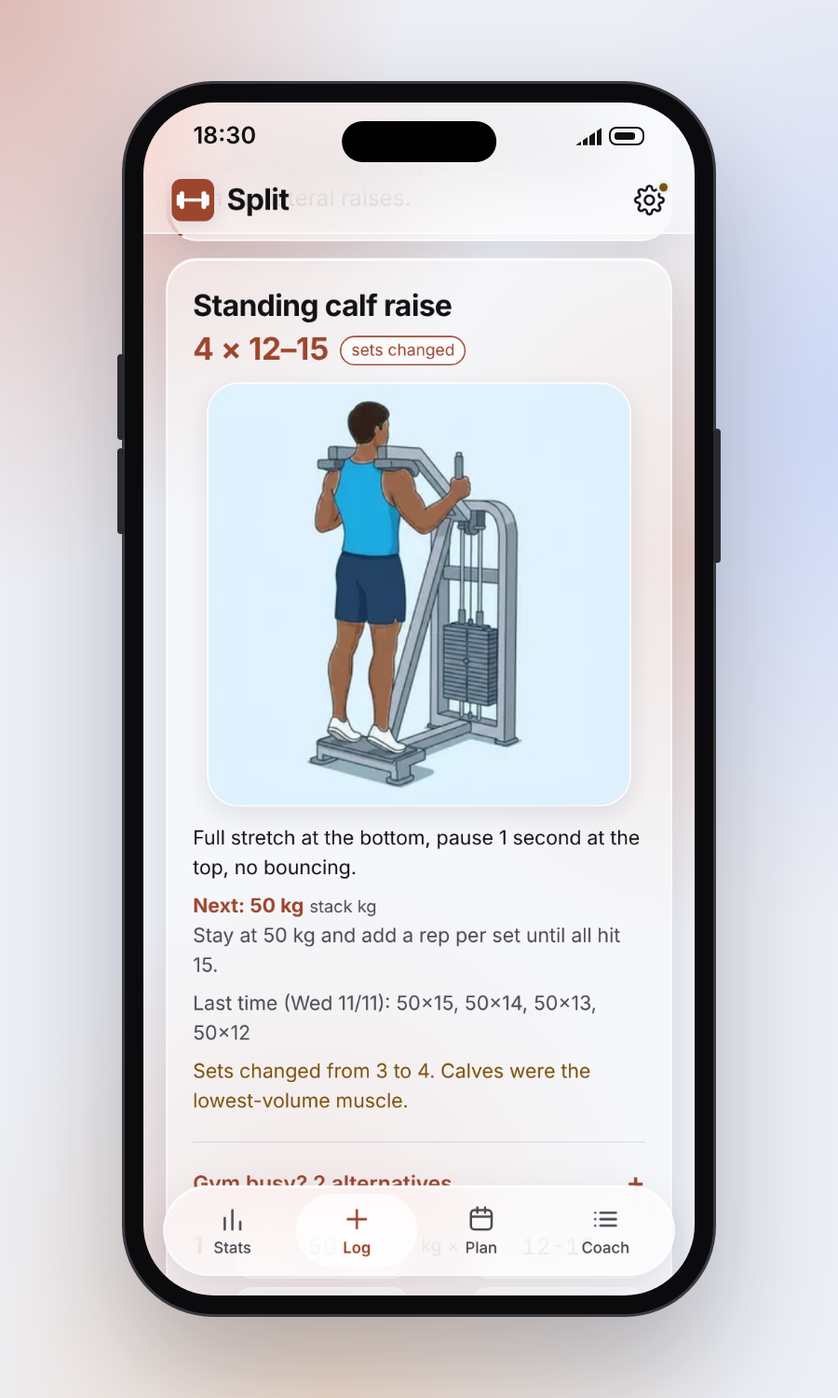
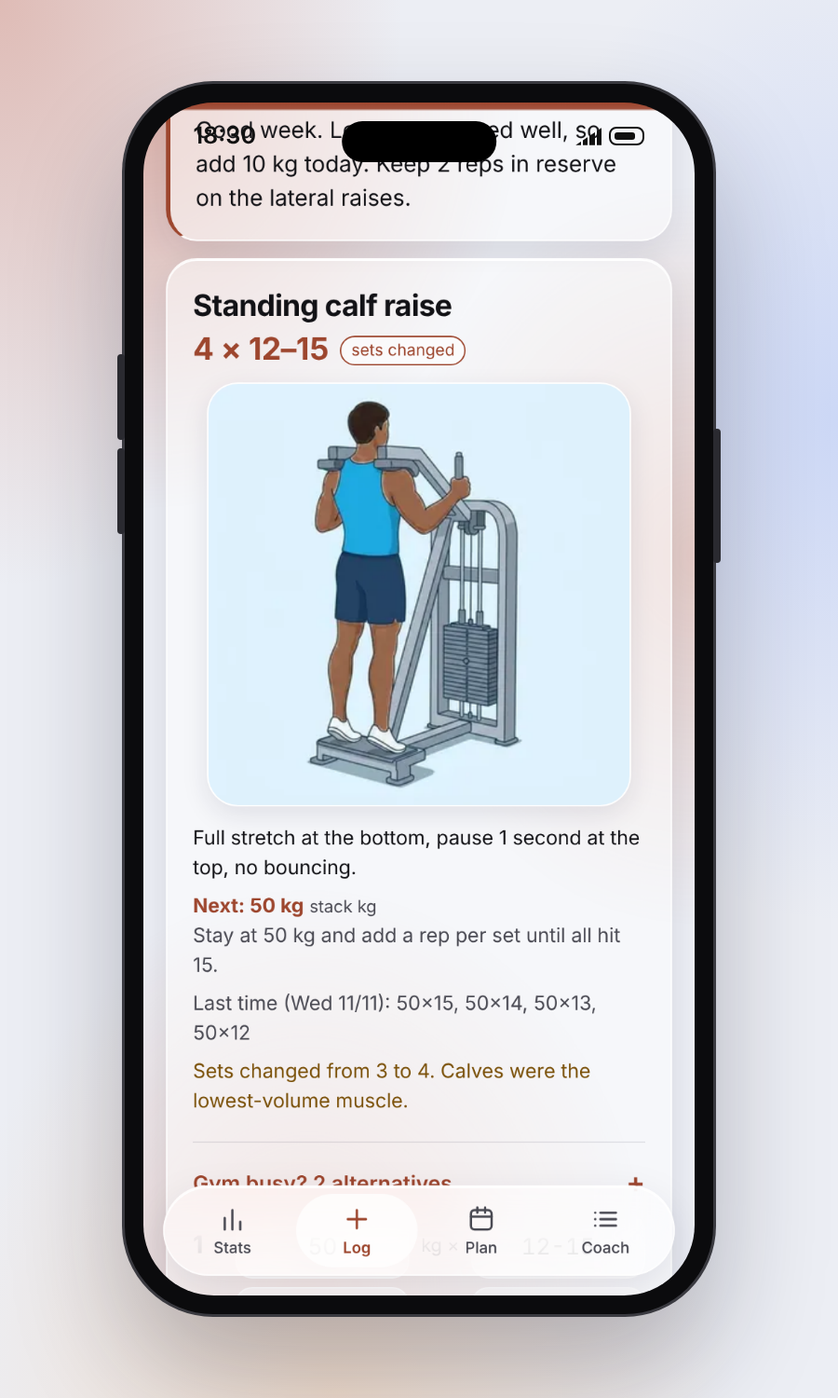
Header scrolls with the page; status-bar strip instead of a blurred header (#6)
Claude-Session: https://claude.ai/code/session_01G4zxRqEfTkFnjpAiDAwh36

Changed region(s): [[0.1556, 0.0613, 0.7778, 0.184], [0.7467, 0.1227, 0.8089, 0.1533]]

diff --git a/index.html b/index.html
@@ -10,7 +10,7 @@
 <meta name="apple-mobile-web-app-capable" content="yes"><meta name="mobile-web-app-capable" content="yes">
 <meta name="apple-mobile-web-app-title" content="Split"><meta name="apple-mobile-web-app-status-bar-style" content="black-translucent">
 <meta name="theme-color" id="tc" content="#faf9f5">
-<script src="theme.js?v=2026-11-18.132731"></script>
+<script src="theme.js?v=2026-11-18.133807"></script>
 <style>
 /* Layout: one narrow column, sticky header, bottom tab bar. Palette: graphite with indigo accent; heat uses its own red-to-green scale. */
 /* Look: warm paper, clay accent, serif display + system sans, quiet hairline cards (follows the iPhone light/dark setting) */
@@ -352,7 +352,8 @@ h2,.hd h2{font-size:32px;line-height:1.1}
 .big{color:var(--accent)}
 .coachnote{border-left:3px solid var(--accent)}
 .dd{padding:0}
-header{position:sticky;top:0;z-index:7;background:var(--glass-bar);-webkit-backdrop-filter:var(--blur);backdrop-filter:var(--blur);border-bottom:1px solid var(--glass-edge);padding:calc(8px + env(safe-area-inset-top)) 20px 8px}
+/* header: not pinned; it sits on the background and scrolls away with the page */
+header{position:static;background:transparent;-webkit-backdrop-filter:none;backdrop-filter:none;border-bottom:0;padding:calc(10px + env(safe-area-inset-top)) 20px 2px}
 header h1{font:600 15px var(--sans);color:var(--ink);letter-spacing:-.01em}
 main{padding-top:14px}
 .nav{bottom:calc(14px + env(safe-area-inset-bottom));width:min(calc(100% - 28px),420px);background:var(--glass-bar);-webkit-backdrop-filter:var(--blur);backdrop-filter:var(--blur);border:1px solid var(--glass-edge);box-shadow:inset 0 1px 0 var(--glass-hi),0 10px 30px var(--glass-shade)}
@@ -384,7 +385,7 @@ dialog#settings::backdrop{background:rgba(0,0,0,.30)}
 /* settings: close button pinned to the top right while the sheet scrolls */
 #set-x{position:sticky;top:0;float:right;margin:-8px -8px 0 8px;width:44px;height:44px;border-radius:50%;display:inline-flex;align-items:center;justify-content:center;border:1px solid var(--glass-edge);background:var(--surface);color:var(--ink);cursor:pointer;z-index:1;box-shadow:0 4px 14px var(--glass-shade)}
 /* fields: room under the pinned header and above the tab bar when scrolled to */
-html{scroll-padding-top:calc(76px + env(safe-area-inset-top));scroll-padding-bottom:calc(100px + env(safe-area-inset-bottom))}
+html{scroll-padding-top:calc(16px + env(safe-area-inset-top));scroll-padding-bottom:calc(100px + env(safe-area-inset-bottom))}
 /* date and body weight side by side: iOS draws date inputs at a fixed minimum width unless these are set */
 .fld{min-width:0}
 .fld input{min-width:0;max-width:100%}
@@ -402,9 +403,13 @@ header .brand h1{font:700 21px var(--sans);letter-spacing:-.02em;color:var(--ink
 #gear #sync[data-s="synced"]{background:var(--good)}#gear #sync[data-s="error"]{background:var(--bad)}
 .glassrow{display:flex;align-items:center;gap:10px;font-size:13px;color:var(--muted)}
 .glassrow input{flex:1;min-width:0;accent-color:var(--accent);height:32px}
-/* the page runs under the iPhone status bar (black-translucent). iOS then always draws the clock and battery in
-   white, so light mode gets a soft accent shade behind them; dark modes need none. Zero height off iPhone. */
-html[data-scheme="light"] header::before{content:"";position:absolute;inset:0 0 auto;height:calc(env(safe-area-inset-top,0px) + 6px);background:linear-gradient(to bottom,color-mix(in srgb,var(--accent) 88%,transparent),color-mix(in srgb,var(--accent) 60%,transparent) 70%,transparent);pointer-events:none}
+/* the page runs under the iPhone status bar (black-translucent). A fixed strip behind the clock stops scrolled content
+   from showing through it; it fades, never blurs. iOS draws the clock in white, so light mode's strip is always on with
+   an accent shade; dark modes show the gradient up to the clock and fade the strip in only once the page scrolls. */
+#sb-band{position:fixed;top:0;left:0;right:0;height:env(safe-area-inset-top,0px);z-index:8;pointer-events:none;opacity:0;transition:opacity .2s;
+  background:linear-gradient(to bottom,var(--bg) 60%,color-mix(in srgb,var(--bg) 0%,transparent))}
+html.scrolled #sb-band{opacity:1}
+html[data-scheme="light"] #sb-band{opacity:1;height:calc(env(safe-area-inset-top,0px) + 6px);background:linear-gradient(to bottom,var(--accent),color-mix(in srgb,var(--accent) 92%,var(--bg)) 72%,color-mix(in srgb,var(--accent) 0%,transparent))}
 /* no backdrop-filter support: bars go near-opaque so text under them stays readable */
 @supports not ((backdrop-filter:blur(1px)) or (-webkit-backdrop-filter:blur(1px))){
   html,html[data-scheme="light"]{--glass-bar:rgba(246,247,250,.96);--glass-sheet:rgba(246,247,250,.97)}
@@ -413,11 +418,12 @@ html[data-scheme="light"] header::before{content:"";position:absolute;inset:0 0 
 }
 /* high contrast: solid surfaces, no translucency, no blur, no wash */
 html[data-contrast="high"]{--glass:var(--surface);--glass-bar:var(--surface);--glass-sheet:var(--surface);--glass-sel:var(--inset);--glass-edge:var(--line);--glass-hi:transparent;--inset:var(--bg)}
-html[data-contrast="high"] header,html[data-contrast="high"] .nav,html[data-contrast="high"] dialog#settings,html[data-contrast="high"] #toast{-webkit-backdrop-filter:none;backdrop-filter:none}
+html[data-contrast="high"] .nav,html[data-contrast="high"] dialog#settings,html[data-contrast="high"] #toast{-webkit-backdrop-filter:none;backdrop-filter:none}
 html[data-contrast="high"] body::before{display:none}
 </style>
 </head>
 <body>
+<div id="sb-band" aria-hidden="true"></div>
 <header><div class="in"><div class="brand"><svg class="appicon" viewBox="0 0 24 24" aria-hidden="true"><rect class="tile-bg" width="24" height="24" rx="5.5"/><g class="bell"><rect x="2.8" y="8.8" width="1.9" height="6.4" rx=".95"/><rect x="4.5" y="7" width="2.6" height="10" rx="1.3"/><rect x="7" y="11.1" width="10" height="1.8" rx=".9"/><rect x="16.9" y="7" width="2.6" height="10" rx="1.3"/><rect x="19.3" y="8.8" width="1.9" height="6.4" rx=".95"/></g></svg><h1>Split</h1></div><button id="gear" type="button" aria-label="Settings"><svg viewBox="0 0 24 24" width="22" height="22" fill="none" stroke="currentColor" stroke-width="1.8" stroke-linecap="round" stroke-linejoin="round" aria-hidden="true"><path d="M12 15.5a3.5 3.5 0 1 0 0-7 3.5 3.5 0 0 0 0 7Z"/><path d="M19.4 15a1.7 1.7 0 0 0 .34 1.87l.06.06a2 2 0 1 1-2.83 2.83l-.06-.06a1.7 1.7 0 0 0-1.87-.34 1.7 1.7 0 0 0-1.04 1.56V21a2 2 0 1 1-4 0v-.09A1.7 1.7 0 0 0 9 19.4a1.7 1.7 0 0 0-1.87.34l-.06.06a2 2 0 1 1-2.83-2.83l.06-.06A1.7 1.7 0 0 0 4.6 15a1.7 1.7 0 0 0-1.56-1.04H3a2 2 0 1 1 0-4h.09A1.7 1.7 0 0 0 4.6 9a1.7 1.7 0 0 0-.34-1.87l-.06-.06a2 2 0 1 1 2.83-2.83l.06.06A1.7 1.7 0 0 0 9 4.6a1.7 1.7 0 0 0 1.04-1.56V3a2 2 0 1 1 4 0v.09A1.7 1.7 0 0 0 15 4.6a1.7 1.7 0 0 0 1.87-.34l.06-.06a2 2 0 1 1 2.83 2.83l-.06.06A1.7 1.7 0 0 0 19.4 9a1.7 1.7 0 0 0 1.56 1.04H21a2 2 0 1 1 0 4h-.09A1.7 1.7 0 0 0 19.4 15Z"/></svg><span id="sync" data-s="warn">Starting…</span></button></div></header>
 <dialog id="settings"><button id="set-x" type="button" aria-label="Close settings"><svg viewBox="0 0 24 24" width="20" height="20" aria-hidden="true" fill="none" stroke="currentColor" stroke-width="2" stroke-linecap="round"><path d="M6 6l12 12M18 6L6 18"/></svg></button><h2>Settings</h2><p id="set-status"></p>
 <h3>Cloud sync</h3><p class="sub" style="margin:0;font-size:13px;color:var(--muted)">Your workouts always save on this phone first. Sync copies them to your private GitHub repo so Claude can read them.</p>
@@ -432,7 +438,7 @@ html[data-contrast="high"] body::before{display:none}
 <button type="button" class="sw" data-acc="forest" aria-label="Forest" style="background:#2c7048"><span>Forest</span></button>
 <button type="button" class="sw" data-acc="violet" aria-label="Violet" style="background:#6a4cb0"><span>Violet</span></button>
 <button type="button" class="sw" data-acc="graphite" aria-label="Graphite" style="background:#3b3a37"><span>Graphite</span></button></div>
-<label for="th-glass">Glass on the tab bar and header</label><div class="glassrow"><span>Clear</span><input type="range" id="th-glass" min="0" max="100" step="5" value="50" aria-describedby="th-glass-note"><span>Tinted</span></div><p class="sub" id="th-glass-note" style="margin:2px 0 0;font-size:12.5px">Clearer shows more of the page behind the bars.</p>
+<label for="th-glass">Glass on the tab bar</label><div class="glassrow"><span>Clear</span><input type="range" id="th-glass" min="0" max="100" step="5" value="50" aria-describedby="th-glass-note"><span>Tinted</span></div><p class="sub" id="th-glass-note" style="margin:2px 0 0;font-size:12.5px">Clearer shows more of the page behind it.</p>
 <label class="hcrow" for="th-hc"><span>High contrast (easier to read in bright light)</span><input type="checkbox" id="th-hc"></label>
 <h3>Goal</h3><label for="set-target">Target body weight, kg (stays on this phone)</label><input id="set-target" type="text" inputmode="decimal" placeholder="optional">
 <h3>Backup</h3><div class="row"><button class="btn" id="set-export" type="button">Export backup</button><label class="btn fileb" style="margin:0;color:var(--ink)">Import backup<input id="set-import" type="file" accept="application/json,.json"></label></div>
@@ -451,6 +457,6 @@ html[data-contrast="high"] body::before{display:none}
 <button data-tab="coach"><svg viewBox="0 0 24 24" aria-hidden="true"><path d="M8 7h12M8 12h12M8 17h12M4 7h.01M4 12h.01M4 17h.01"/></svg>Coach</button>
 </div></nav>
 <div id="toast" role="status" aria-live="polite"></div>
-<script src="split.js?v=2026-11-18.132731"></script>
+<script src="split.js?v=2026-11-18.133807"></script>
 </body>
 </html>

diff --git a/src/template.html b/src/template.html
@@ -352,7 +352,8 @@ h2,.hd h2{font-size:32px;line-height:1.1}
 .big{color:var(--accent)}
 .coachnote{border-left:3px solid var(--accent)}
 .dd{padding:0}
-header{position:sticky;top:0;z-index:7;background:var(--glass-bar);-webkit-backdrop-filter:var(--blur);backdrop-filter:var(--blur);border-bottom:1px solid var(--glass-edge);padding:calc(8px + env(safe-area-inset-top)) 20px 8px}
+/* header: not pinned; it sits on the background and scrolls away with the page */
+header{position:static;background:transparent;-webkit-backdrop-filter:none;backdrop-filter:none;border-bottom:0;padding:calc(10px + env(safe-area-inset-top)) 20px 2px}
 header h1{font:600 15px var(--sans);color:var(--ink);letter-spacing:-.01em}
 main{padding-top:14px}
 .nav{bottom:calc(14px + env(safe-area-inset-bottom));width:min(calc(100% - 28px),420px);background:var(--glass-bar);-webkit-backdrop-filter:var(--blur);backdrop-filter:var(--blur);border:1px solid var(--glass-edge);box-shadow:inset 0 1px 0 var(--glass-hi),0 10px 30px var(--glass-shade)}
@@ -384,7 +385,7 @@ dialog#settings::backdrop{background:rgba(0,0,0,.30)}
 /* settings: close button pinned to the top right while the sheet scrolls */
 #set-x{position:sticky;top:0;float:right;margin:-8px -8px 0 8px;width:44px;height:44px;border-radius:50%;display:inline-flex;align-items:center;justify-content:center;border:1px solid var(--glass-edge);background:var(--surface);color:var(--ink);cursor:pointer;z-index:1;box-shadow:0 4px 14px var(--glass-shade)}
 /* fields: room under the pinned header and above the tab bar when scrolled to */
-html{scroll-padding-top:calc(76px + env(safe-area-inset-top));scroll-padding-bottom:calc(100px + env(safe-area-inset-bottom))}
+html{scroll-padding-top:calc(16px + env(safe-area-inset-top));scroll-padding-bottom:calc(100px + env(safe-area-inset-bottom))}
 /* date and body weight side by side: iOS draws date inputs at a fixed minimum width unless these are set */
 .fld{min-width:0}
 .fld input{min-width:0;max-width:100%}
@@ -402,9 +403,13 @@ header .brand h1{font:700 21px var(--sans);letter-spacing:-.02em;color:var(--ink
 #gear #sync[data-s="synced"]{background:var(--good)}#gear #sync[data-s="error"]{background:var(--bad)}
 .glassrow{display:flex;align-items:center;gap:10px;font-size:13px;color:var(--muted)}
 .glassrow input{flex:1;min-width:0;accent-color:var(--accent);height:32px}
-/* the page runs under the iPhone status bar (black-translucent). iOS then always draws the clock and battery in
-   white, so light mode gets a soft accent shade behind them; dark modes need none. Zero height off iPhone. */
-html[data-scheme="light"] header::before{content:"";position:absolute;inset:0 0 auto;height:calc(env(safe-area-inset-top,0px) + 6px);background:linear-gradient(to bottom,color-mix(in srgb,var(--accent) 88%,transparent),color-mix(in srgb,var(--accent) 60%,transparent) 70%,transparent);pointer-events:none}
+/* the page runs under the iPhone status bar (black-translucent). A fixed strip behind the clock stops scrolled content
+   from showing through it; it fades, never blurs. iOS draws the clock in white, so light mode's strip is always on with
+   an accent shade; dark modes show the gradient up to the clock and fade the strip in only once the page scrolls. */
+#sb-band{position:fixed;top:0;left:0;right:0;height:env(safe-area-inset-top,0px);z-index:8;pointer-events:none;opacity:0;transition:opacity .2s;
+  background:linear-gradient(to bottom,var(--bg) 60%,color-mix(in srgb,var(--bg) 0%,transparent))}
+html.scrolled #sb-band{opacity:1}
+html[data-scheme="light"] #sb-band{opacity:1;height:calc(env(safe-area-inset-top,0px) + 6px);background:linear-gradient(to bottom,var(--accent),color-mix(in srgb,var(--accent) 92%,var(--bg)) 72%,color-mix(in srgb,var(--accent) 0%,transparent))}
 /* no backdrop-filter support: bars go near-opaque so text under them stays readable */
 @supports not ((backdrop-filter:blur(1px)) or (-webkit-backdrop-filter:blur(1px))){
   html,html[data-scheme="light"]{--glass-bar:rgba(246,247,250,.96);--glass-sheet:rgba(246,247,250,.97)}
@@ -413,11 +418,12 @@ html[data-scheme="light"] header::before{content:"";position:absolute;inset:0 0 
 }
 /* high contrast: solid surfaces, no translucency, no blur, no wash */
 html[data-contrast="high"]{--glass:var(--surface);--glass-bar:var(--surface);--glass-sheet:var(--surface);--glass-sel:var(--inset);--glass-edge:var(--line);--glass-hi:transparent;--inset:var(--bg)}
-html[data-contrast="high"] header,html[data-contrast="high"] .nav,html[data-contrast="high"] dialog#settings,html[data-contrast="high"] #toast{-webkit-backdrop-filter:none;backdrop-filter:none}
+html[data-contrast="high"] .nav,html[data-contrast="high"] dialog#settings,html[data-contrast="high"] #toast{-webkit-backdrop-filter:none;backdrop-filter:none}
 html[data-contrast="high"] body::before{display:none}
 </style>
 </head>
 <body>
+<div id="sb-band" aria-hidden="true"></div>
 <header><div class="in"><div class="brand"><svg class="appicon" viewBox="0 0 24 24" aria-hidden="true"><rect class="tile-bg" width="24" height="24" rx="5.5"/><g class="bell"><rect x="2.8" y="8.8" width="1.9" height="6.4" rx=".95"/><rect x="4.5" y="7" width="2.6" height="10" rx="1.3"/><rect x="7" y="11.1" width="10" height="1.8" rx=".9"/><rect x="16.9" y="7" width="2.6" height="10" rx="1.3"/><rect x="19.3" y="8.8" width="1.9" height="6.4" rx=".95"/></g></svg><h1>Split</h1></div><button id="gear" type="button" aria-label="Settings"><svg viewBox="0 0 24 24" width="22" height="22" fill="none" stroke="currentColor" stroke-width="1.8" stroke-linecap="round" stroke-linejoin="round" aria-hidden="true"><path d="M12 15.5a3.5 3.5 0 1 0 0-7 3.5 3.5 0 0 0 0 7Z"/><path d="M19.4 15a1.7 1.7 0 0 0 .34 1.87l.06.06a2 2 0 1 1-2.83 2.83l-.06-.06a1.7 1.7 0 0 0-1.87-.34 1.7 1.7 0 0 0-1.04 1.56V21a2 2 0 1 1-4 0v-.09A1.7 1.7 0 0 0 9 19.4a1.7 1.7 0 0 0-1.87.34l-.06.06a2 2 0 1 1-2.83-2.83l.06-.06A1.7 1.7 0 0 0 4.6 15a1.7 1.7 0 0 0-1.56-1.04H3a2 2 0 1 1 0-4h.09A1.7 1.7 0 0 0 4.6 9a1.7 1.7 0 0 0-.34-1.87l-.06-.06a2 2 0 1 1 2.83-2.83l.06.06A1.7 1.7 0 0 0 9 4.6a1.7 1.7 0 0 0 1.04-1.56V3a2 2 0 1 1 4 0v.09A1.7 1.7 0 0 0 15 4.6a1.7 1.7 0 0 0 1.87-.34l.06-.06a2 2 0 1 1 2.83 2.83l-.06.06A1.7 1.7 0 0 0 19.4 9a1.7 1.7 0 0 0 1.56 1.04H21a2 2 0 1 1 0 4h-.09A1.7 1.7 0 0 0 19.4 15Z"/></svg><span id="sync" data-s="warn">Starting…</span></button></div></header>
 <dialog id="settings"><button id="set-x" type="button" aria-label="Close settings"><svg viewBox="0 0 24 24" width="20" height="20" aria-hidden="true" fill="none" stroke="currentColor" stroke-width="2" stroke-linecap="round"><path d="M6 6l12 12M18 6L6 18"/></svg></button><h2>Settings</h2><p id="set-status"></p>
 <h3>Cloud sync</h3><p class="sub" style="margin:0;font-size:13px;color:var(--muted)">Your workouts always save on this phone first. Sync copies them to your private GitHub repo so Claude can read them.</p>
@@ -432,7 +438,7 @@ html[data-contrast="high"] body::before{display:none}
 <button type="button" class="sw" data-acc="forest" aria-label="Forest" style="background:#2c7048"><span>Forest</span></button>
 <button type="button" class="sw" data-acc="violet" aria-label="Violet" style="background:#6a4cb0"><span>Violet</span></button>
 <button type="button" class="sw" data-acc="graphite" aria-label="Graphite" style="background:#3b3a37"><span>Graphite</span></button></div>
-<label for="th-glass">Glass on the tab bar and header</label><div class="glassrow"><span>Clear</span><input type="range" id="th-glass" min="0" max="100" step="5" value="50" aria-describedby="th-glass-note"><span>Tinted</span></div><p class="sub" id="th-glass-note" style="margin:2px 0 0;font-size:12.5px">Clearer shows more of the page behind the bars.</p>
+<label for="th-glass">Glass on the tab bar</label><div class="glassrow"><span>Clear</span><input type="range" id="th-glass" min="0" max="100" step="5" value="50" aria-describedby="th-glass-note"><span>Tinted</span></div><p class="sub" id="th-glass-note" style="margin:2px 0 0;font-size:12.5px">Clearer shows more of the page behind it.</p>
 <label class="hcrow" for="th-hc"><span>High contrast (easier to read in bright light)</span><input type="checkbox" id="th-hc"></label>
 <h3>Goal</h3><label for="set-target">Target body weight, kg (stays on this phone)</label><input id="set-target" type="text" inputmode="decimal" placeholder="optional">
 <h3>Backup</h3><div class="row"><button class="btn" id="set-export" type="button">Export backup</button><label class="btn fileb" style="margin:0;color:var(--ink)">Import backup<input id="set-import" type="file" accept="application/json,.json"></label></div>

diff --git a/tests/app.test.js b/tests/app.test.js
@@ -215,14 +215,24 @@ const lum=c=>{const f=v=>v<=.03928?v/12.92:Math.pow((v+.055)/1.055,2.4);return .
 const contrast=(a,b)=>{const x=lum(a),y=lum(b);return (Math.max(x,y)+.05)/(Math.min(x,y)+.05);};
 const theme=(mode,extra={})=>({'split-theme-v1':Object.assign({mode,accent:'clay',contrast:'normal'},extra)});
 
-test('glass: wash sits behind the page and bars blur, cards do not',async()=>{
+test('glass: wash sits behind the page, the tab bar blurs, cards and header do not',async()=>{
   const {ctx,page}=await openApp({hash:'stats',ls:theme('light')});
   const r=await page.evaluate(()=>{const bf=e=>{const s=getComputedStyle(e);return s.backdropFilter||s.webkitBackdropFilter||'none';};
     return {wash:getComputedStyle(document.body,'::before').position,header:bf(document.querySelector('header')),nav:bf(document.querySelector('.nav')),card:bf(document.querySelector('.card')),radius:getComputedStyle(document.querySelector('.card')).borderRadius};});
   assert.equal(r.wash,'fixed');
-  assert.match(r.header,/blur/);assert.match(r.nav,/blur/);
-  assert.equal(r.card,'none');
+  assert.match(r.nav,/blur/);
+  assert.equal(r.header,'none');assert.equal(r.card,'none');
   assert.equal(r.radius,'22px');
+  await ctx.close();
+});
+
+test('the header scrolls away with the page and sits on the background',async()=>{
+  const {ctx,page}=await openApp({hash:'plan',ctxOpts:{viewport:{width:390,height:700}}});
+  const r=await page.evaluate(()=>{const h=document.querySelector('header'),cs=getComputedStyle(h);window.scrollTo(0,600);
+    return {pos:cs.position,bg:cs.backgroundColor,bottom:h.getBoundingClientRect().bottom};});
+  assert.equal(r.pos,'static');
+  assert.match(r.bg,/rgba\(0, 0, 0, 0\)|transparent/);
+  assert.ok(r.bottom<0,'header scrolled out of view: '+r.bottom);
   await ctx.close();
 });
 
@@ -320,14 +330,14 @@ test('settings has a close button in the top right corner',async()=>{
   await ctx.close();
 });
 
-test('a focused input is never left under the pinned header',async()=>{
+test('a focused input is never left under the status bar strip',async()=>{
   const {ctx,page}=await openApp({hash:'log',ctxOpts:{viewport:{width:390,height:700}}});
+  await page.addStyleTag({content:'#sb-band{height:59px!important}'}); // the iPhone 15 Pro Max inset; Chromium reports 0
   const sel='input[data-ex][data-i="0"][data-f="reps"]';
-  // put the input partly underneath the header, as when the page has scrolled
-  await page.evaluate(sel=>{const h=document.querySelector('header').getBoundingClientRect().bottom,i=document.querySelector(sel).getBoundingClientRect().top;window.scrollBy(0,i-h+20);},sel);
+  await page.evaluate(sel=>{const i=document.querySelector(sel).getBoundingClientRect().top;window.scrollBy(0,i-30);},sel);
   await page.focus(sel);await page.waitForTimeout(400);
-  const r=await page.evaluate(sel=>({header:document.querySelector('header').getBoundingClientRect().bottom,input:document.querySelector(sel).getBoundingClientRect().top}),sel);
-  assert.ok(r.input>=r.header,`input top ${r.input} vs header bottom ${r.header}`);
+  const r=await page.evaluate(sel=>({band:document.querySelector('#sb-band').getBoundingClientRect().bottom,input:document.querySelector(sel).getBoundingClientRect().top}),sel);
+  assert.ok(r.input>=r.band,`input top ${r.input} vs strip bottom ${r.band}`);
   await ctx.close();
 });
 
@@ -394,12 +404,18 @@ test('the background runs under the iPhone status bar',async()=>{
   const html=fs.readFileSync(path.join(ROOT,'index.html'),'utf8');
   assert.match(html,/<meta name="apple-mobile-web-app-status-bar-style" content="black-translucent">/);
   assert.match(html,/viewport-fit=cover/);
-  // the status bar text is always white with black-translucent: light mode gets a shade behind it, dark modes do not
-  const shade={};
-  for(const mode of ['light','dark','black']){
+  // a fixed strip behind the clock keeps scrolled content from showing through it; it fades, it does not blur.
+  // iOS draws the clock in white here, so light mode's strip carries the accent shade.
+  const band={};
+  for(const mode of ['light','dark']){
     const {ctx,page}=await openApp({hash:'stats',ls:theme(mode)});
-    shade[mode]=await page.$eval('header',h=>getComputedStyle(h,'::before').content!=='none'&&getComputedStyle(h,'::before').display!=='none');
+    band[mode]=await page.$eval('#sb-band',b=>{const cs=getComputedStyle(b);return {pos:cs.position,top:cs.top,pe:cs.pointerEvents,img:cs.backgroundImage,bf:cs.backdropFilter||cs.webkitBackdropFilter||'none'};});
     await ctx.close();
   }
-  assert.deepEqual(shade,{light:true,dark:false,black:false});
+  for(const m of ['light','dark']){
+    assert.equal(band[m].pos,'fixed');assert.equal(band[m].top,'0px');assert.equal(band[m].pe,'none');
+    assert.match(band[m].img,/gradient/);assert.equal(band[m].bf,'none');
+  }
+  assert.notEqual(band.light.img,band.dark.img,'light strip carries the accent shade');
 });
+

diff --git a/split.js b/split.js
@@ -80,7 +80,7 @@ let sampleCache=null;
 const LS_CO='split-coach-v1',LS_CS='split-coach-shas-v1';
 const esc=s=>String(s==null?'':s).replace(/[&<>"']/g,c=>({'&':'&amp;','<':'&lt;','>':'&gt;','"':'&quot;',"'":'&#39;'}[c]));
 const LS_S='split-sessions-v2',LS_SA='split-sessions-at-v1',LS_Q='split-queue-v1',LS_C='split-sync-cfg-v1',LS_H='split-shas-v1',LS_L='split-lastsync-v1';
-const BUILD='2026-11-18.132731';
+const BUILD='2026-11-18.133807';
 const DATE_RE=/^\d{4}-\d{2}-\d{2}$/,FILE_RE=/^\d{4}-\d{2}-\d{2}\.json$/,REPO_RE=/^[\w.-]+\/[\w.-]+$/;
 const dayOf=id=>DAYS.find(x=>x.id===id)||null;
 const lsGet=(k,d)=>{try{const v=localStorage.getItem(k);return v?JSON.parse(v):d;}catch(e){return d;}};
@@ -694,12 +694,15 @@ window.addEventListener('pagehide',()=>{if(state.dirty)autoSave();});
 window.addEventListener('focus',rollover);
 window.addEventListener('online',()=>schedSync(500));
 document.addEventListener('visibilitychange',()=>{if(document.hidden){if(Object.keys(queueGet()).length)schedSync(0);}else schedSync(500);});
-/* Keep a focused field clear of the pinned header and the floating tab bar. iOS only scrolls a field into
-   the viewport when the keyboard opens, which can leave it underneath the header. */
+/* Keep a focused field clear of the status-bar strip and the floating tab bar. iOS only scrolls a field into
+   the viewport when the keyboard opens, which can leave it underneath the clock. */
 function keepClear(t){
-  const h=$('header'),n=$('.nav'),r=t.getBoundingClientRect(),top=h?h.getBoundingClientRect().bottom+8:0,bot=n?n.getBoundingClientRect().top-8:innerHeight;
+  const b=$('#sb-band'),n=$('.nav'),r=t.getBoundingClientRect(),top=(b?b.getBoundingClientRect().bottom:0)+8,bot=n?n.getBoundingClientRect().top-8:innerHeight;
   if(r.top<top)window.scrollBy(0,r.top-top);else if(r.bottom>bot&&r.height<bot-top)window.scrollBy(0,r.bottom-bot);
 }
+/* dark modes fade the status-bar strip in once the page has scrolled */
+const markScrolled=()=>document.documentElement.classList.toggle('scrolled',scrollY>8);
+window.addEventListener('scroll',markScrolled,{passive:true});markScrolled();
 document.addEventListener('focusin',e=>{const t=e.target;if(!t.matches||!t.matches('input,textarea,select')||t.closest('dialog'))return;[60,350].forEach(ms=>setTimeout(()=>{if(document.activeElement===t)keepClear(t);},ms));});
 /* ---------- themes ---------- */
 const LS_TH='split-theme-v1';

diff --git a/src/app.js b/src/app.js
@@ -635,12 +635,15 @@ window.addEventListener('pagehide',()=>{if(state.dirty)autoSave();});
 window.addEventListener('focus',rollover);
 window.addEventListener('online',()=>schedSync(500));
 document.addEventListener('visibilitychange',()=>{if(document.hidden){if(Object.keys(queueGet()).length)schedSync(0);}else schedSync(500);});
-/* Keep a focused field clear of the pinned header and the floating tab bar. iOS only scrolls a field into
-   the viewport when the keyboard opens, which can leave it underneath the header. */
+/* Keep a focused field clear of the status-bar strip and the floating tab bar. iOS only scrolls a field into
+   the viewport when the keyboard opens, which can leave it underneath the clock. */
 function keepClear(t){
-  const h=$('header'),n=$('.nav'),r=t.getBoundingClientRect(),top=h?h.getBoundingClientRect().bottom+8:0,bot=n?n.getBoundingClientRect().top-8:innerHeight;
+  const b=$('#sb-band'),n=$('.nav'),r=t.getBoundingClientRect(),top=(b?b.getBoundingClientRect().bottom:0)+8,bot=n?n.getBoundingClientRect().top-8:innerHeight;
   if(r.top<top)window.scrollBy(0,r.top-top);else if(r.bottom>bot&&r.height<bot-top)window.scrollBy(0,r.bottom-bot);
 }
+/* dark modes fade the status-bar strip in once the page has scrolled */
+const markScrolled=()=>document.documentElement.classList.toggle('scrolled',scrollY>8);
+window.addEventListener('scroll',markScrolled,{passive:true});markScrolled();
 document.addEventListener('focusin',e=>{const t=e.target;if(!t.matches||!t.matches('input,textarea,select')||t.closest('dialog'))return;[60,350].forEach(ms=>setTimeout(()=>{if(document.activeElement===t)keepClear(t);},ms));});
 /* ---------- themes ---------- */
 const LS_TH='split-theme-v1';

diff --git a/sw.js b/sw.js
@@ -1,4 +1,4 @@
-const V='split-2026-11-18.132731';
+const V='split-2026-11-18.133807';
 const SHELL=['./','index.html','split.js','theme.js','manifest.webmanifest','icon-192.png','icon-512.png','apple-touch-icon.png'];
 self.addEventListener('install',e=>{e.waitUntil(caches.open(V).then(c=>c.addAll(SHELL)).then(()=>self.skipWaiting()));});
 self.addEventListener('activate',e=>{e.waitUntil(caches.keys().then(ks=>Promise.all(ks.filter(k=>k!==V).map(k=>caches.delete(k)))).then(()=>self.clients.claim()));});

diff --git a/README.md b/README.md
@@ -67,7 +67,7 @@ If your data repo has `coach/YYYY-MM-DD.json`, the Log tab shows its note for th
 
 ### Looks right in the gym
 
-Liquid Glass styling in Auto, Light, Dark or Black mode, with five accent colours. The background is a soft gradient in whichever accent you pick. A Glass slider in Settings sets how clear the tab bar and header are, and High contrast turns the glass solid for bright gyms.
+Liquid Glass styling in Auto, Light, Dark or Black mode, with five accent colours. The background is a soft gradient in whichever accent you pick. A Glass slider in Settings sets how clear the tab bar is, and High contrast turns the glass solid for bright gyms.
 
 </td>
 <td width="44%"><img src="docs/screenshots/dark.png" alt="The Stats tab in dark mode with the Ocean accent"></td>
